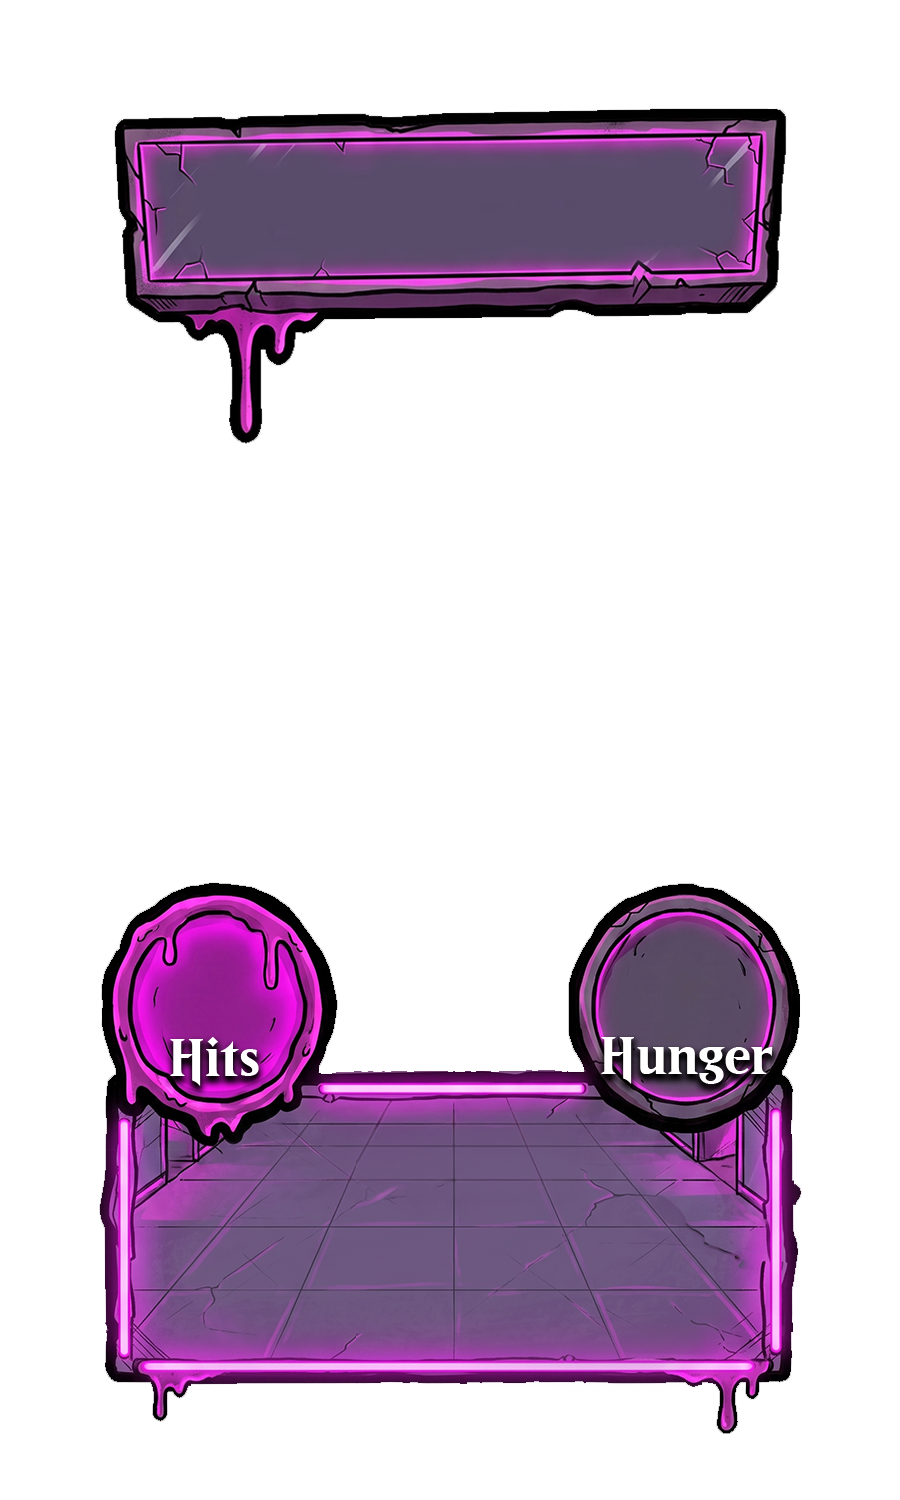
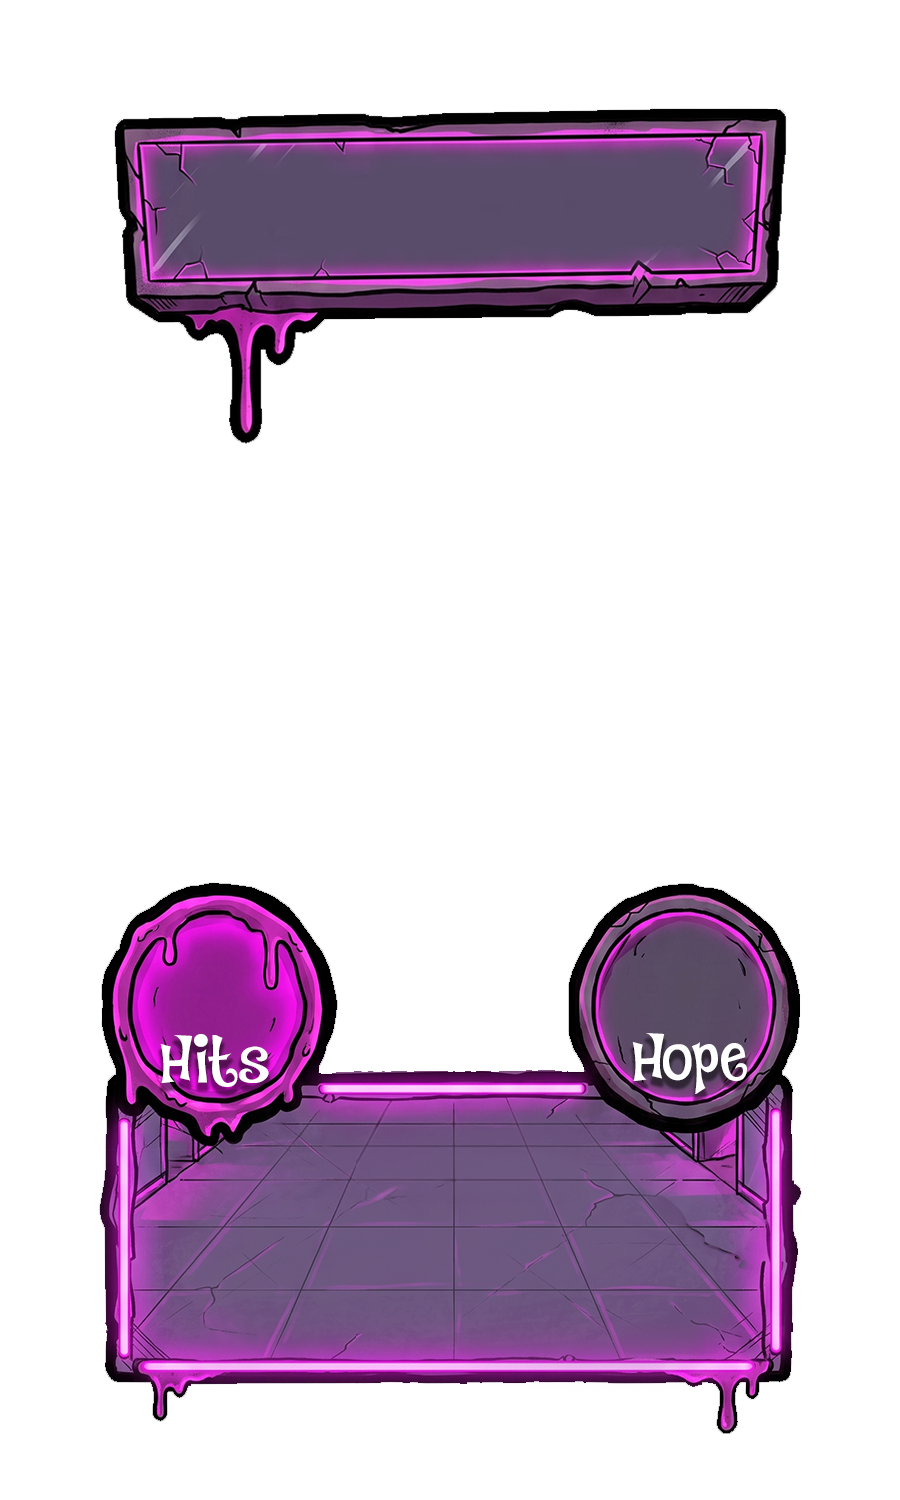
feat(azv): Good Stuff sub-types (Weapon / Armor / Energy)
New AZVGoodStuffType enum with a dropdown on Good Stuff cards, driving
both the overlay and which inputs appear:
- Weapon: weapon type icon + Hope + description (AZV-GS-W-Overlay)
- Armor:  title + description (AZV-GS-A-Overlay)
- Energy: title + description (AZV-GS-E-Overlay)

Good Stuff now takes a level too, capped at 4 — nothing is looted on
the Helipad — while Bad Stuff keeps floors 1–5. The card spec resolves
fields and overlay from a context (level + sub-kind) instead of static
tables, so the form, preview, and renderer all follow one source.

Assets: three GS overlays added, five Bad Stuff level overlays replaced.

Changed region(s): [[0.6533, 0.6747, 0.8711, 0.736], [0.1556, 0.6747, 0.3111, 0.736]]

diff --git a/src/app/games/azv/packs/AZVPackBuilder.tsx b/src/app/games/azv/packs/AZVPackBuilder.tsx
@@ -1,6 +1,6 @@
 "use client";
 
-import { useState, useEffect, useRef, useCallback } from "react";
+import { useState, useEffect, useRef, useCallback, useMemo } from "react";
 import { ArrowLeft, Plus, Loader2, Trash2, Upload, Wand2, X, Type, ChevronRight, FileSpreadsheet, Zap } from "lucide-react";
 import { useAuth } from "@/lib/AuthProvider";
 import { listAZVStyleSets, type AZVStyleSet } from "@/lib/azv-packs";
@@ -13,12 +13,14 @@ import {
   AZV_CARD_TYPES,
   AZV_CARD_TYPE_LABELS,
   AZV_WEAPON_TYPES,
+  AZV_GOOD_STUFF_TYPES,
   AZV_CONDITION_TYPES,
   type AZVPack,
   type AZVCard,
   type AZVCardFields,
   type AZVCardType,
   type AZVWeaponType,
+  type AZVGoodStuffType,
   type AZVCondition,
   type AZVConditionType,
 } from "@/lib/azv-packs";
@@ -30,9 +32,10 @@ import {
 } from "@/lib/azv-storage";
 import { ensureJMFont, jmFontFamily } from "@/JMKit";
 import {
-  AZV_TYPE_SPEC,
   AZV_LAYOUT,
   overlayForCard,
+  fieldsForCard,
+  maxLevelForCard,
   weaponIconPath,
   resolveAZVTextStyle,
 } from "./azvCardSpec";
@@ -179,6 +182,7 @@ export default function AZVPackBuilder({ pack, onBack }: AZVPackBuilderProps) {
   // ── Form state ──────────────────────────────────────────────
   const [cardType, setCardType] = useState<AZVCardType>("Humans");
   const [title, setTitle] = useState("");
+  const [goodStuffType, setGoodStuffType] = useState<AZVGoodStuffType>("Weapon");
   const [weaponType, setWeaponType] = useState<AZVWeaponType | "">("");
   const [level, setLevel] = useState(1);
   const [hits, setHits] = useState("");
@@ -263,7 +267,7 @@ export default function AZVPackBuilder({ pack, onBack }: AZVPackBuilderProps) {
     void ensureJMFont(style.font).then(() => {
       if (cancelled) return;
       const hitsN = parseInt(hits, 10);
-      const hhRaw = AZV_TYPE_SPEC[cardType].fields.hope ? hope : hunger;
+      const hhRaw = fieldsForCard(cardType, { goodStuffType }).hope ? hope : hunger;
       const hhN = parseInt(hhRaw, 10);
       setStatFitSizes({
         hits: Number.isNaN(hitsN)
@@ -277,7 +281,7 @@ export default function AZVPackBuilder({ pack, onBack }: AZVPackBuilderProps) {
     return () => {
       cancelled = true;
     };
-  }, [textStyles, hits, hope, hunger, cardType]);
+  }, [textStyles, hits, hope, hunger, cardType, goodStuffType]);
 
   useEffect(() => {
     let cancelled = false;
@@ -322,6 +326,7 @@ export default function AZVPackBuilder({ pack, onBack }: AZVPackBuilderProps) {
           : `${Date.now()}-${Math.random().toString(36).slice(2, 11)}`;
       setCardType("Humans");
       setTitle("");
+      setGoodStuffType("Weapon");
       setWeaponType("");
       setLevel(1);
       setHits("");
@@ -335,6 +340,7 @@ export default function AZVPackBuilder({ pack, onBack }: AZVPackBuilderProps) {
       cardIdRef.current = card.id;
       setCardType(card.cardType);
       setTitle(card.title);
+      setGoodStuffType(card.goodStuffType ?? "Weapon");
       setWeaponType(card.weaponType ?? "");
       setLevel(card.level ?? 1);
       setHits(card.hits != null ? String(card.hits) : "");
@@ -364,7 +370,12 @@ export default function AZVPackBuilder({ pack, onBack }: AZVPackBuilderProps) {
     });
   }, []);
 
-  const spec = AZV_TYPE_SPEC[cardType];
+  // Which inputs this card exposes — Good Stuff varies by sub-kind.
+  const spec = useMemo(
+    () => ({ fields: fieldsForCard(cardType, { goodStuffType }) }),
+    [cardType, goodStuffType],
+  );
+  const maxLevel = maxLevelForCard(cardType);
   const parseNum = (v: string): number | undefined => {
     const n = parseInt(v, 10);
     return Number.isNaN(n) ? undefined : n;
@@ -372,13 +383,14 @@ export default function AZVPackBuilder({ pack, onBack }: AZVPackBuilderProps) {
 
   const buildFields = useCallback(
     (finalBgURL: string): AZVCardFields => {
-      const lvl = Math.min(5, Math.max(1, level));
+      const lvl = Math.min(maxLevel, Math.max(1, level));
       const hitsN = parseNum(hits);
       const hungerN = parseNum(hunger);
       const hopeN = parseNum(hope);
       return {
         cardType,
         title: title.trim(),
+        ...(spec.fields.goodStuffType ? { goodStuffType } : {}),
         ...(spec.fields.weaponType && weaponType ? { weaponType } : {}),
         ...(spec.fields.level ? { level: lvl } : {}),
         ...(spec.fields.hits && hitsN != null ? { hits: hitsN } : {}),
@@ -395,7 +407,7 @@ export default function AZVPackBuilder({ pack, onBack }: AZVPackBuilderProps) {
         ...(finalBgURL ? { backgroundImageURL: finalBgURL } : {}),
       };
     },
-    [cardType, title, weaponType, level, hits, hunger, hope, conditions, description, oneTimePower, styleSetId, spec],
+    [cardType, title, goodStuffType, weaponType, level, hits, hunger, hope, conditions, description, oneTimePower, styleSetId, spec, maxLevel],
   );
 
   const handleSave = useCallback(async () => {
@@ -433,11 +445,13 @@ export default function AZVPackBuilder({ pack, onBack }: AZVPackBuilderProps) {
       const hopeHungerN = parseNum(spec.fields.hope ? hope : hunger);
       const blob = await renderAZVCard({
         cardType,
+        ...(spec.fields.goodStuffType ? { goodStuffType } : {}),
         level,
         backgroundImageURL: pendingBgPreview ?? bgURL ?? undefined,
         title,
         ...(spec.fields.hits && hitsN != null ? { hits: hitsN } : {}),
         ...(hopeHungerN != null ? { hopeOrHunger: hopeHungerN } : {}),
+        ...(spec.fields.goodStuffType ? { goodStuffType } : {}),
         ...(spec.fields.weaponType && weaponType ? { weaponType } : {}),
         ...(spec.fields.description && description.trim() ? { description: description.trim() } : {}),
         ...(spec.fields.conditions && conditions.length ? { conditions } : {}),
@@ -450,7 +464,7 @@ export default function AZVPackBuilder({ pack, onBack }: AZVPackBuilderProps) {
     } finally {
       setGenerating(false);
     }
-  }, [editing, cardType, level, pendingBgPreview, bgURL, pack.id, title, hits, hope, hunger, weaponType, description, conditions, textStyles, spec]);
+  }, [editing, cardType, level, goodStuffType, pendingBgPreview, bgURL, pack.id, title, hits, hope, hunger, weaponType, description, conditions, textStyles, spec]);
 
   /** Cards grouped by type — and, for level-bearing types, by level too. */
   const cardGroups = (() => {
@@ -458,7 +472,7 @@ export default function AZVPackBuilder({ pack, onBack }: AZVPackBuilderProps) {
     for (const type of AZV_CARD_TYPES) {
       const ofType = cards.filter((c) => c.cardType === type);
       if (ofType.length === 0) continue;
-      if (AZV_TYPE_SPEC[type].fields.level) {
+      if (fieldsForCard(type, {}).level) {
         const levels = [...new Set(ofType.map((c) => c.level ?? 1))].sort((a, b) => a - b);
         for (const lvl of levels) {
           groups.set(`${type}-L${lvl}`, {
@@ -518,7 +532,7 @@ export default function AZVPackBuilder({ pack, onBack }: AZVPackBuilderProps) {
   }, [editing]);
 
   const previewBg = editing ? (pendingBgPreview ?? bgURL) : "";
-  const previewOverlay = editing ? overlayForCard(cardType, level) : null;
+  const previewOverlay = editing ? overlayForCard(cardType, { level, goodStuffType }) : null;
   const previewHits = spec.fields.hits ? parseNum(hits) : undefined;
   const previewHopeHunger = parseNum(spec.fields.hope ? hope : spec.fields.hunger ? hunger : "");
   const previewWeapon = spec.fields.weaponType && weaponType ? weaponType : undefined;
@@ -685,16 +699,33 @@ export default function AZVPackBuilder({ pack, onBack }: AZVPackBuilderProps) {
                   />
                 </div>
 
+                {spec.fields.goodStuffType && (
+                  <div className="space-y-1.5">
+                    <label className={labelClass}>Good Stuff Type</label>
+                    <select
+                      value={goodStuffType}
+                      onChange={(e) => setGoodStuffType(e.target.value as AZVGoodStuffType)}
+                      className="w-full rounded-lg border border-white/20 bg-neutral-800 px-3 py-2.5 text-sm font-bold text-white outline-none focus:border-lime-400/50"
+                    >
+                      {AZV_GOOD_STUFF_TYPES.map((t) => (
+                        <option key={t} value={t}>
+                          {t}
+                        </option>
+                      ))}
+                    </select>
+                  </div>
+                )}
+
                 {spec.fields.level && (
                   <div className="space-y-1.5">
-                    <label className={labelClass}>Level (1–5)</label>
+                    <label className={labelClass}>Level (1–{maxLevel})</label>
                     <input
                       type="number"
                       min={1}
-                      max={5}
+                      max={maxLevel}
                       value={level}
                       onChange={(e) =>
-                        setLevel(Math.min(5, Math.max(1, parseInt(e.target.value, 10) || 1)))
+                        setLevel(Math.min(maxLevel, Math.max(1, parseInt(e.target.value, 10) || 1)))
                       }
                       className={inputClass}
                     />

diff --git a/src/app/games/azv/packs/azvCardSpec.ts b/src/app/games/azv/packs/azvCardSpec.ts
@@ -1,6 +1,7 @@
 import type {
   AZVCardType,
   AZVWeaponType,
+  AZVGoodStuffType,
   AZVTextStyle,
   AZVTextStyles,
   AZVTextAlign,
@@ -14,25 +15,44 @@ import type {
  * background. Shared by the builder form, the live preview, and the renderer.
  */
 
+/** Optional inputs a card exposes (title + background are universal). */
+export interface AZVFieldFlags {
+  goodStuffType?: boolean;
+  weaponType?: boolean;
+  level?: boolean;
+  hits?: boolean;
+  hunger?: boolean;
+  hope?: boolean;
+  conditions?: boolean;
+  description?: boolean;
+  oneTimePower?: boolean;
+}
+
+/** What a card's fields/overlay depend on beyond its CardType. */
+export interface AZVCardContext {
+  level?: number | undefined;
+  goodStuffType?: AZVGoodStuffType | undefined;
+}
+
 export interface AZVTypeSpec {
-  /** Optional inputs this type exposes (title + background are universal). */
-  fields: {
-    weaponType?: boolean;
-    level?: boolean;
-    hits?: boolean;
-    hunger?: boolean;
-    hope?: boolean;
-    conditions?: boolean;
-    description?: boolean;
-    oneTimePower?: boolean;
-  };
-  /** Foreground overlay path, or null for none. BadStuff resolves by level. */
-  overlay: string | null | ((level: number) => string);
+  fields: AZVFieldFlags | ((ctx: AZVCardContext) => AZVFieldFlags);
+  /** Overlay path, null for none — BadStuff resolves by level, Good Stuff by
+   * sub-kind. */
+  overlay: string | null | ((ctx: AZVCardContext) => string | null);
+  /** Highest level this type uses. Mall floors go to 5; loot stops at 4
+   * (nothing is looted on the Helipad). */
+  maxLevel?: number;
 }
 
 const HUMAN = "/games/azv/Human-Overlay.png";
-const GOOD_STUFF = "/games/azv/GoodStuff-Overlay.png";
 const MEGA = "/games/azv/Mega-Stuff-Overlay.png";
+
+/** Good Stuff overlays by sub-kind. */
+const GOOD_STUFF_OVERLAYS: Record<AZVGoodStuffType, string> = {
+  Weapon: "/games/azv/AZV-GS-W-Overlay.png",
+  Armor: "/games/azv/AZV-GS-A-Overlay.png",
+  Energy: "/games/azv/AZV-GS-E-Overlay.png",
+};
 
 /** BadStuff mall floors, level 1–5. */
 const BAD_STUFF_OVERLAYS: Record<number, string> = {
@@ -54,11 +74,16 @@ export const AZV_TYPE_SPEC: Record<AZVCardType, AZVTypeSpec> = {
   },
   BadStuff: {
     fields: { level: true, hits: true, hunger: true, description: true, conditions: true },
-    overlay: (level) => BAD_STUFF_OVERLAYS[level] ?? BAD_STUFF_OVERLAYS[1]!,
+    overlay: ({ level }) => BAD_STUFF_OVERLAYS[level ?? 1] ?? BAD_STUFF_OVERLAYS[1]!,
   },
   GoodStuff: {
-    fields: { weaponType: true, hope: true, description: true },
-    overlay: GOOD_STUFF,
+    // Weapons carry a damage type and Hope; armor and energy are title + text.
+    fields: ({ goodStuffType }) =>
+      goodStuffType === "Armor" || goodStuffType === "Energy"
+        ? { goodStuffType: true, level: true, description: true }
+        : { goodStuffType: true, level: true, weaponType: true, hope: true, description: true },
+    overlay: ({ goodStuffType }) => GOOD_STUFF_OVERLAYS[goodStuffType ?? "Weapon"],
+    maxLevel: 4,
   },
   MegaStuff: {
     fields: { weaponType: true, hope: true, description: true },
@@ -125,8 +150,18 @@ export function weaponIconPath(weapon: AZVWeaponType): string {
 }
 
 /** Resolve the overlay path for a card (null = no overlay). */
-export function overlayForCard(cardType: AZVCardType, level: number | undefined): string | null {
+export function overlayForCard(cardType: AZVCardType, ctx: AZVCardContext = {}): string | null {
   const spec = AZV_TYPE_SPEC[cardType];
-  if (typeof spec.overlay === "function") return spec.overlay(level ?? 1);
-  return spec.overlay;
+  return typeof spec.overlay === "function" ? spec.overlay(ctx) : spec.overlay;
+}
+
+/** Resolve which inputs a card exposes. */
+export function fieldsForCard(cardType: AZVCardType, ctx: AZVCardContext = {}): AZVFieldFlags {
+  const spec = AZV_TYPE_SPEC[cardType];
+  return typeof spec.fields === "function" ? spec.fields(ctx) : spec.fields;
+}
+
+/** Highest selectable level for a card type (default 5). */
+export function maxLevelForCard(cardType: AZVCardType): number {
+  return AZV_TYPE_SPEC[cardType].maxLevel ?? 5;
 }

diff --git a/src/lib/azv-packs.ts b/src/lib/azv-packs.ts
@@ -13,6 +13,10 @@ export const AZV_WEAPON_TYPES: AZVWeaponType[] = [
   "Slamming",
 ];
 
+/** Good Stuff sub-kind — drives its overlay and which stats it carries. */
+export type AZVGoodStuffType = "Weapon" | "Armor" | "Energy";
+export const AZV_GOOD_STUFF_TYPES: AZVGoodStuffType[] = ["Weapon", "Armor", "Energy"];
+
 export type AZVConditionType = "Weakness" | "Resistant" | "Immune";
 export const AZV_CONDITION_TYPES: AZVConditionType[] = [
   "Weakness",
@@ -106,8 +110,10 @@ export interface AZVCard {
   packId: string;
   cardType: AZVCardType;
   title: string;
+  /** Good Stuff only: Weapon | Armor | Energy. */
+  goodStuffType?: AZVGoodStuffType;
   weaponType?: AZVWeaponType;
-  /** 1–5 (BadStuff mall floors; roll/level/counter cards). */
+  /** BadStuff mall floors 1–5; loot (Good Stuff) is found on 1–4. */
   level?: number;
   hits?: number;
   hunger?: number;
@@ -132,6 +138,7 @@ export interface AZVCard {
 export interface AZVCardFields {
   cardType: AZVCardType;
   title: string;
+  goodStuffType?: AZVGoodStuffType;
   weaponType?: AZVWeaponType;
   level?: number;
   hits?: number;
@@ -303,6 +310,7 @@ async function cardFieldsData(
     title: fields.title,
   };
   const optionals: [string, unknown][] = [
+    ["goodStuffType", fields.goodStuffType || undefined],
     ["weaponType", fields.weaponType || undefined],
     ["level", typeof fields.level === "number" ? fields.level : undefined],
     ["hits", typeof fields.hits === "number" ? fields.hits : undefined],

diff --git a/src/app/games/azv/packs/azvCardRenderer.ts b/src/app/games/azv/packs/azvCardRenderer.ts
@@ -1,7 +1,13 @@
 "use client";
 
 import { ensureJMFont, jmFontFamily } from "@/JMKit";
-import type { AZVCardType, AZVWeaponType, AZVTextStyles, AZVCondition } from "@/lib/azv-packs";
+import type {
+  AZVCardType,
+  AZVWeaponType,
+  AZVGoodStuffType,
+  AZVTextStyles,
+  AZVCondition,
+} from "@/lib/azv-packs";
 import {
   overlayForCard,
   weaponIconPath,
@@ -25,6 +31,7 @@ const CARD_H = 1500;
 
 export interface AZVCardRenderInput {
   cardType: AZVCardType;
+  goodStuffType?: AZVGoodStuffType | undefined;
   level?: number | undefined;
   backgroundImageURL?: string | undefined;
   title?: string | undefined;
@@ -340,7 +347,10 @@ export async function renderAZVCard(input: AZVCardRenderInput): Promise<Blob> {
     drawCover(ctx, await loadImage(input.backgroundImageURL));
   }
 
-  const overlaySrc = overlayForCard(input.cardType, input.level);
+  const overlaySrc = overlayForCard(input.cardType, {
+    level: input.level,
+    goodStuffType: input.goodStuffType,
+  });
   if (overlaySrc) {
     ctx.drawImage(await loadImage(overlaySrc), 0, 0, CARD_W, CARD_H);
   }
